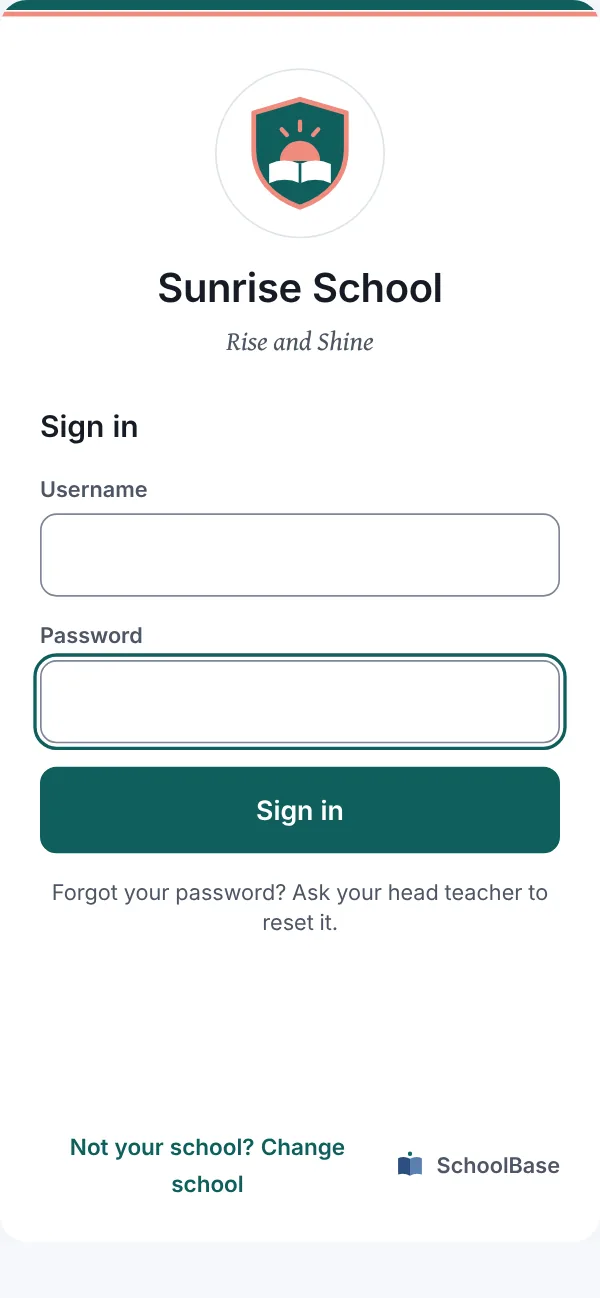
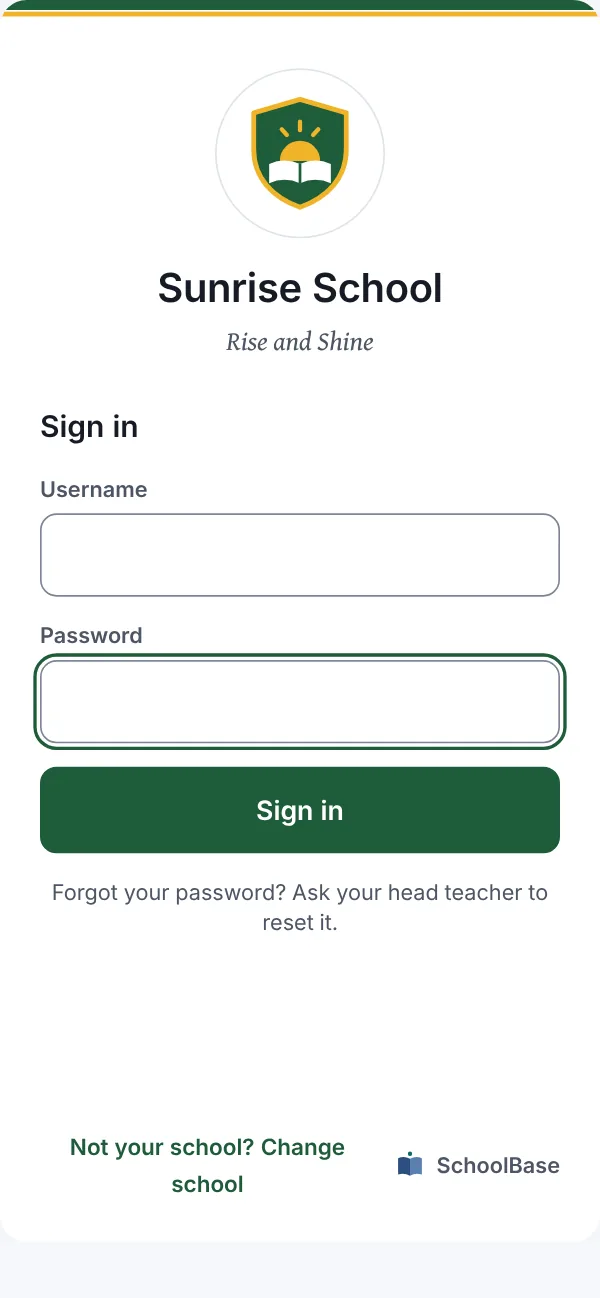
Apple devices throughout; green and wine sample schools
- iPad (on its side) and iPad mini (upright) frames for the tablet pictures, retaken at iPad sizes
- Make it your own: SchoolBase Academy in SchoolBase blue, Sunrise School in green, Bright Future School in wine, each on an iPad with its own sign-in page on an iPhone

Claude-Session: https://claude.ai/code/session_01NWGt9B6dFygNpNTZggbebt

Changed region(s): [[0.06, 0.5855, 0.93, 0.678], [0.0, 0.0, 0.99, 0.0308], [0.39, 0.0616, 0.6, 0.1849]]

diff --git a/index.html b/index.html
@@ -406,11 +406,20 @@ footer nav a{color:var(--ink-2);text-decoration:none}
 .sbx h2{margin:0;font-family:var(--display);font-weight:700;font-size:clamp(30px,3.4vw,44px);line-height:1.1;letter-spacing:-.015em;color:var(--ink,#14233b)}
 .sbx h3{margin:0 0 8px;font-family:var(--display);font-size:21px;line-height:1.25;color:var(--ink,#14233b)}
 .sbx-head p,.sbx p.sbx-p{margin:16px 0 0;font-size:18px;line-height:1.6;color:var(--ink-2,#46536a)}
-.sbx-tabs{display:grid;grid-template-columns:1.62fr 1fr;gap:clamp(20px,4vw,56px);align-items:end}
-.sbx-tab{position:relative;background:#16181d;border-radius:clamp(14px,2vw,26px);padding:clamp(8px,1.1vw,14px);box-shadow:0 30px 60px -28px rgba(12,26,50,.45),inset 0 0 0 1px rgba(255,255,255,.08)}
-.sbx-tab img{display:block;width:100%;height:auto;border-radius:clamp(6px,.8vw,10px)}
-.sbx-tab::after{content:"";position:absolute;top:50%;right:calc(clamp(8px,1.1vw,14px)/2 - 2px);width:4px;height:4px;margin-top:-2px;border-radius:50%;background:#3a3d44}
-.sbx-tab.up::after{top:calc(clamp(8px,1.1vw,14px)/2 - 2px);right:50%;margin:0 -2px 0 0}
+.sbx-tabs{display:grid;grid-template-columns:1.75fr 1fr;gap:clamp(20px,4vw,56px);align-items:end}
+.sbx-tab{position:relative;background:#0b0b0d;border-radius:4.2%/6%;padding:2.6%;box-shadow:0 0 0 1.5px #c9ccd1,0 0 0 3px #e6e8eb,0 34px 60px -30px rgba(12,26,50,.5)}
+.sbx-tab img{display:block;width:100%;height:auto;border-radius:1.4%/2%}
+.sbx-tab::before{content:"";position:absolute;left:50%;top:1.05%;width:.6%;aspect-ratio:1;margin-left:-.3%;border-radius:50%;background:#2a2d33;box-shadow:inset 0 0 0 1px #3d4148}
+.sbx-tab.up{border-radius:6%/4%;padding:3.6%}
+.sbx-tab.up img{border-radius:2.2%/1.4%}
+.sbx-tab.up::before{top:1.5%;width:.9%;margin-left:-.45%}
+.sbx-iph{position:relative;background:#0b0b0d;border-radius:16%/7.4%;padding:3.2%;box-shadow:0 0 0 1.5px #c9ccd1,0 0 0 3px #e6e8eb,0 20px 40px -18px rgba(12,26,50,.55)}
+.sbx-iph .scr{position:relative;overflow:hidden;border-radius:13%/6%;background:#fff}
+.sbx-iph .scr{container-type:inline-size}
+.sbx-iph .bar{display:flex;justify-content:space-between;align-items:center;aspect-ratio:600/64;padding:0 11% 0 12%;font:600 4.6cqw/1 -apple-system,system-ui,"Segoe UI",sans-serif;color:#0b0b0b}
+.sbx-iph .bar i{display:block;width:9%;aspect-ratio:2.2;border-radius:3px;background:linear-gradient(90deg,#0b0b0b 0 70%,transparent 70%);opacity:.85}
+.sbx-iph .isl{position:absolute;left:50%;top:1.2%;width:29%;aspect-ratio:3.6;transform:translateX(-50%);border-radius:99px;background:#0b0b0d}
+.sbx-iph img{display:block;width:100%;height:auto}
 .sbx-cap{margin:14px 0 0;font-size:15px;color:var(--ink-3,#6b768a);text-align:center}
 .sbx-list{list-style:none;margin:28px 0 0;padding:0;display:grid;grid-template-columns:repeat(3,minmax(0,1fr));gap:14px 28px}
 .sbx-list li{position:relative;padding-left:28px;font-size:16px;line-height:1.5;color:var(--ink-2,#46536a)}
@@ -419,9 +428,8 @@ footer nav a{color:var(--ink-2);text-decoration:none}
 .sbx-schools{display:grid;grid-template-columns:repeat(3,minmax(0,1fr));gap:clamp(16px,2.4vw,32px)}
 .sbx-school{margin:0}
 .sbx-shot{position:relative;padding:0 0 18% 0}
-.sbx-shot .sbx-tab{width:88%}
-.sbx-ph{position:absolute;right:0;bottom:0;width:30%;background:#16181d;border-radius:clamp(12px,1.6vw,20px);padding:clamp(4px,.5vw,6px);box-shadow:0 18px 36px -16px rgba(12,26,50,.5)}
-.sbx-ph img{display:block;width:100%;height:auto;border-radius:clamp(9px,1.2vw,15px)}
+.sbx-shot .sbx-tab{width:86%}
+.sbx-ph{position:absolute;right:0;bottom:0;width:29%}
 .sbx-school figcaption{margin-top:16px}
 .sbx-school figcaption b{display:block;font-size:18px;color:var(--ink,#14233b)}
 .sbx-school figcaption span{display:block;font-size:15px;color:var(--ink-3,#6b768a)}
@@ -664,23 +672,23 @@ footer nav a{color:var(--ink-2);text-decoration:none}
   <div class="sbx-in">
     <div class="sbx-head"><p class="sbx-eyebrow">Tablets</p><h2 id="tab-h">On a tablet, too</h2><p>SchoolBase looks and works the same on a phone, a laptop or a tablet. A tablet on the bursar's desk keeps fees and receipts in view all day; one in a classroom or at the gate takes the register in seconds.</p></div>
     <div class="sbx-tabs">
-      <figure style="margin:0"><div class="sbx-tab"><img src="img/t-home.webp" width="1600" height="1000" loading="lazy" alt="SchoolBase on a 10-inch tablet held sideways: the welcome banner, today's figures and a tile for every page."></div><figcaption class="sbx-cap">A 10-inch tablet on its side: the full menu, as on a laptop.</figcaption></figure>
-      <figure style="margin:0"><div class="sbx-tab up"><img src="img/t-attend.webp" width="1000" height="1600" loading="lazy" alt="The morning register on an 8-inch tablet held upright, with Present, Late and Absent for each pupil."></div><figcaption class="sbx-cap">An 8-inch tablet upright: the morning register.</figcaption></figure>
+      <figure style="margin:0"><div class="sbx-tab"><img src="img/t-home.webp" width="1770" height="1230" loading="lazy" alt="SchoolBase on an iPad held sideways: the welcome banner, today's figures and a tile for every page."></div><figcaption class="sbx-cap">An iPad on its side: the full menu, as on a laptop.</figcaption></figure>
+      <figure style="margin:0"><div class="sbx-tab up"><img src="img/t-attend.webp" width="1116" height="1700" loading="lazy" alt="The morning register on an iPad mini held upright, with Present, Late and Absent for each pupil."></div><figcaption class="sbx-cap">An iPad mini upright: the morning register.</figcaption></figure>
     </div>
     <ul class="sbx-list">
       <li><b>Nothing to install.</b> It runs in the web browser, and keeps working when the internet drops.</li>
-      <li><b>Budget tablets are enough.</b> Any recent Android tablet, 8 or 10 inches, does the job.</li>
+      <li><b>Any recent tablet will do.</b> An iPad, an iPad mini, or a budget Android tablet of 8 to 11 inches.</li>
       <li><b>A tablet package is coming.</b> Tablets set up for you and locked to your school, with a quick sign-in for staff who share one.</li>
     </ul>
   </div>
 </section>
 <section class="sbx sbx-alt" id="yours" aria-labelledby="yours-h">
   <div class="sbx-in">
-    <div class="sbx-head"><p class="sbx-eyebrow">Your school</p><h2 id="yours-h">Make it your own</h2><p>Every school gets the same complete system, set up the way it already works and dressed in its own crest, motto and colours. Here are three of our sample schools.</p></div>
+    <div class="sbx-head"><p class="sbx-eyebrow">Your school</p><h2 id="yours-h">Make it your own</h2><p>Every school gets the same complete system, set up the way it already works and dressed in its own crest, motto and colours. Here is our sample school in SchoolBase's own colours, and two more set up in green and in wine.</p></div>
     <div class="sbx-schools">
-      <figure class="sbx-school"><div class="sbx-shot"><div class="sbx-tab"><img src="img/c-schoolbase.webp" width="1600" height="1000" loading="lazy" alt="SchoolBase Academy's home page in blue and gold, with its open-book crest."></div><div class="sbx-ph"><img src="img/c-schoolbase-signin.webp" width="600" height="1298" loading="lazy" alt="SchoolBase Academy's own sign-in page on a phone."></div></div><figcaption><b>SchoolBase Academy</b><span>Blue and gold · open-book crest · “Learning made simple”</span></figcaption></figure>
-      <figure class="sbx-school"><div class="sbx-shot"><div class="sbx-tab"><img src="img/c-sunrise.webp" width="1600" height="1000" loading="lazy" alt="Sunrise School's home page in teal and coral, with a rising-sun crest."></div><div class="sbx-ph"><img src="img/c-sunrise-signin.webp" width="600" height="1298" loading="lazy" alt="Sunrise School's own sign-in page on a phone."></div></div><figcaption><b>Sunrise School</b><span>Teal and coral · rising-sun crest · “Rise and Shine”</span></figcaption></figure>
-      <figure class="sbx-school"><div class="sbx-shot"><div class="sbx-tab"><img src="img/c-hillview.webp" width="1600" height="1000" loading="lazy" alt="Hillview Academy's home page in navy and sky blue, with a hills crest."></div><div class="sbx-ph"><img src="img/c-hillview-signin.webp" width="600" height="1298" loading="lazy" alt="Hillview Academy's own sign-in page on a phone."></div></div><figcaption><b>Hillview Academy</b><span>Navy and sky · hills crest · “Climb Higher”</span></figcaption></figure>
+      <figure class="sbx-school"><div class="sbx-shot"><div class="sbx-tab"><img src="img/c-schoolbase.webp" width="1770" height="1230" loading="lazy" alt="SchoolBase Academy's home page on an iPad, in SchoolBase blue and gold."></div><div class="sbx-ph"><div class="sbx-iph"><div class="scr"><div class="bar"><span>9:41</span><i></i></div><span class="isl" aria-hidden="true"></span><img src="img/c-schoolbase-signin.webp" width="600" height="1298" loading="lazy" alt="SchoolBase Academy's own sign-in page on an iPhone."></div></div></div></div><figcaption><b>SchoolBase Academy</b><span>SchoolBase blue and gold, the standard look · open-book crest · “Learning made simple”</span></figcaption></figure>
+      <figure class="sbx-school"><div class="sbx-shot"><div class="sbx-tab"><img src="img/c-sunrise.webp" width="1770" height="1230" loading="lazy" alt="Sunrise School's home page on an iPad, in forest green and amber."></div><div class="sbx-ph"><div class="sbx-iph"><div class="scr"><div class="bar"><span>9:41</span><i></i></div><span class="isl" aria-hidden="true"></span><img src="img/c-sunrise-signin.webp" width="600" height="1298" loading="lazy" alt="Sunrise School's own sign-in page on an iPhone."></div></div></div></div><figcaption><b>Sunrise School</b><span>Forest green and amber · rising-sun crest · “Rise and Shine”</span></figcaption></figure>
+      <figure class="sbx-school"><div class="sbx-shot"><div class="sbx-tab"><img src="img/c-demo.webp" width="1770" height="1230" loading="lazy" alt="Bright Future School's home page on an iPad, in wine and gold."></div><div class="sbx-ph"><div class="sbx-iph"><div class="scr"><div class="bar"><span>9:41</span><i></i></div><span class="isl" aria-hidden="true"></span><img src="img/c-demo-signin.webp" width="600" height="1298" loading="lazy" alt="Bright Future School's own sign-in page on an iPhone."></div></div></div></div><figcaption><b>Bright Future School</b><span>Wine and gold · torch crest · “Light, Learning, Service”</span></figcaption></figure>
     </div>
     <div class="sbx-cols">
       <div class="sbx-card"><h3>What we set up for your school</h3>

diff --git a/c/index.html b/c/index.html
@@ -249,11 +249,20 @@ footer nav a{text-decoration:none;color:var(--ink-2)}
 .sbx h2{margin:0;font-family:var(--serif);font-weight:700;font-size:clamp(30px,3.4vw,44px);line-height:1.1;letter-spacing:-.015em;color:var(--ink,#14233b)}
 .sbx h3{margin:0 0 8px;font-family:var(--serif);font-size:21px;line-height:1.25;color:var(--ink,#14233b)}
 .sbx-head p,.sbx p.sbx-p{margin:16px 0 0;font-size:18px;line-height:1.6;color:var(--ink-2,#46536a)}
-.sbx-tabs{display:grid;grid-template-columns:1.62fr 1fr;gap:clamp(20px,4vw,56px);align-items:end}
-.sbx-tab{position:relative;background:#16181d;border-radius:clamp(14px,2vw,26px);padding:clamp(8px,1.1vw,14px);box-shadow:0 30px 60px -28px rgba(12,26,50,.45),inset 0 0 0 1px rgba(255,255,255,.08)}
-.sbx-tab img{display:block;width:100%;height:auto;border-radius:clamp(6px,.8vw,10px)}
-.sbx-tab::after{content:"";position:absolute;top:50%;right:calc(clamp(8px,1.1vw,14px)/2 - 2px);width:4px;height:4px;margin-top:-2px;border-radius:50%;background:#3a3d44}
-.sbx-tab.up::after{top:calc(clamp(8px,1.1vw,14px)/2 - 2px);right:50%;margin:0 -2px 0 0}
+.sbx-tabs{display:grid;grid-template-columns:1.75fr 1fr;gap:clamp(20px,4vw,56px);align-items:end}
+.sbx-tab{position:relative;background:#0b0b0d;border-radius:4.2%/6%;padding:2.6%;box-shadow:0 0 0 1.5px #c9ccd1,0 0 0 3px #e6e8eb,0 34px 60px -30px rgba(12,26,50,.5)}
+.sbx-tab img{display:block;width:100%;height:auto;border-radius:1.4%/2%}
+.sbx-tab::before{content:"";position:absolute;left:50%;top:1.05%;width:.6%;aspect-ratio:1;margin-left:-.3%;border-radius:50%;background:#2a2d33;box-shadow:inset 0 0 0 1px #3d4148}
+.sbx-tab.up{border-radius:6%/4%;padding:3.6%}
+.sbx-tab.up img{border-radius:2.2%/1.4%}
+.sbx-tab.up::before{top:1.5%;width:.9%;margin-left:-.45%}
+.sbx-iph{position:relative;background:#0b0b0d;border-radius:16%/7.4%;padding:3.2%;box-shadow:0 0 0 1.5px #c9ccd1,0 0 0 3px #e6e8eb,0 20px 40px -18px rgba(12,26,50,.55)}
+.sbx-iph .scr{position:relative;overflow:hidden;border-radius:13%/6%;background:#fff}
+.sbx-iph .scr{container-type:inline-size}
+.sbx-iph .bar{display:flex;justify-content:space-between;align-items:center;aspect-ratio:600/64;padding:0 11% 0 12%;font:600 4.6cqw/1 -apple-system,system-ui,"Segoe UI",sans-serif;color:#0b0b0b}
+.sbx-iph .bar i{display:block;width:9%;aspect-ratio:2.2;border-radius:3px;background:linear-gradient(90deg,#0b0b0b 0 70%,transparent 70%);opacity:.85}
+.sbx-iph .isl{position:absolute;left:50%;top:1.2%;width:29%;aspect-ratio:3.6;transform:translateX(-50%);border-radius:99px;background:#0b0b0d}
+.sbx-iph img{display:block;width:100%;height:auto}
 .sbx-cap{margin:14px 0 0;font-size:15px;color:var(--ink-3,#6b768a);text-align:center}
 .sbx-list{list-style:none;margin:28px 0 0;padding:0;display:grid;grid-template-columns:repeat(3,minmax(0,1fr));gap:14px 28px}
 .sbx-list li{position:relative;padding-left:28px;font-size:16px;line-height:1.5;color:var(--ink-2,#46536a)}
@@ -262,9 +271,8 @@ footer nav a{text-decoration:none;color:var(--ink-2)}
 .sbx-schools{display:grid;grid-template-columns:repeat(3,minmax(0,1fr));gap:clamp(16px,2.4vw,32px)}
 .sbx-school{margin:0}
 .sbx-shot{position:relative;padding:0 0 18% 0}
-.sbx-shot .sbx-tab{width:88%}
-.sbx-ph{position:absolute;right:0;bottom:0;width:30%;background:#16181d;border-radius:clamp(12px,1.6vw,20px);padding:clamp(4px,.5vw,6px);box-shadow:0 18px 36px -16px rgba(12,26,50,.5)}
-.sbx-ph img{display:block;width:100%;height:auto;border-radius:clamp(9px,1.2vw,15px)}
+.sbx-shot .sbx-tab{width:86%}
+.sbx-ph{position:absolute;right:0;bottom:0;width:29%}
 .sbx-school figcaption{margin-top:16px}
 .sbx-school figcaption b{display:block;font-size:18px;color:var(--ink,#14233b)}
 .sbx-school figcaption span{display:block;font-size:15px;color:var(--ink-3,#6b768a)}
@@ -385,23 +393,23 @@ footer nav a{text-decoration:none;color:var(--ink-2)}
   <div class="sbx-in">
     <div class="sbx-head"><p class="sbx-eyebrow">Tablets</p><h2 id="tab-h">On a tablet, too</h2><p>SchoolBase looks and works the same on a phone, a laptop or a tablet. A tablet on the bursar's desk keeps fees and receipts in view all day; one in a classroom or at the gate takes the register in seconds.</p></div>
     <div class="sbx-tabs">
-      <figure style="margin:0"><div class="sbx-tab"><img src="img/t-home.webp" width="1600" height="1000" loading="lazy" alt="SchoolBase on a 10-inch tablet held sideways: the welcome banner, today's figures and a tile for every page."></div><figcaption class="sbx-cap">A 10-inch tablet on its side: the full menu, as on a laptop.</figcaption></figure>
-      <figure style="margin:0"><div class="sbx-tab up"><img src="img/t-attend.webp" width="1000" height="1600" loading="lazy" alt="The morning register on an 8-inch tablet held upright, with Present, Late and Absent for each pupil."></div><figcaption class="sbx-cap">An 8-inch tablet upright: the morning register.</figcaption></figure>
+      <figure style="margin:0"><div class="sbx-tab"><img src="img/t-home.webp" width="1770" height="1230" loading="lazy" alt="SchoolBase on an iPad held sideways: the welcome banner, today's figures and a tile for every page."></div><figcaption class="sbx-cap">An iPad on its side: the full menu, as on a laptop.</figcaption></figure>
+      <figure style="margin:0"><div class="sbx-tab up"><img src="img/t-attend.webp" width="1116" height="1700" loading="lazy" alt="The morning register on an iPad mini held upright, with Present, Late and Absent for each pupil."></div><figcaption class="sbx-cap">An iPad mini upright: the morning register.</figcaption></figure>
     </div>
     <ul class="sbx-list">
       <li><b>Nothing to install.</b> It runs in the web browser, and keeps working when the internet drops.</li>
-      <li><b>Budget tablets are enough.</b> Any recent Android tablet, 8 or 10 inches, does the job.</li>
+      <li><b>Any recent tablet will do.</b> An iPad, an iPad mini, or a budget Android tablet of 8 to 11 inches.</li>
       <li><b>A tablet package is coming.</b> Tablets set up for you and locked to your school, with a quick sign-in for staff who share one.</li>
     </ul>
   </div>
 </section>
 <section class="sbx sbx-alt" id="yours" aria-labelledby="yours-h">
   <div class="sbx-in">
-    <div class="sbx-head"><p class="sbx-eyebrow">Your school</p><h2 id="yours-h">Make it your own</h2><p>Every school gets the same complete system, set up the way it already works and dressed in its own crest, motto and colours. Here are three of our sample schools.</p></div>
+    <div class="sbx-head"><p class="sbx-eyebrow">Your school</p><h2 id="yours-h">Make it your own</h2><p>Every school gets the same complete system, set up the way it already works and dressed in its own crest, motto and colours. Here is our sample school in SchoolBase's own colours, and two more set up in green and in wine.</p></div>
     <div class="sbx-schools">
-      <figure class="sbx-school"><div class="sbx-shot"><div class="sbx-tab"><img src="img/c-schoolbase.webp" width="1600" height="1000" loading="lazy" alt="SchoolBase Academy's home page in blue and gold, with its open-book crest."></div><div class="sbx-ph"><img src="img/c-schoolbase-signin.webp" width="600" height="1298" loading="lazy" alt="SchoolBase Academy's own sign-in page on a phone."></div></div><figcaption><b>SchoolBase Academy</b><span>Blue and gold · open-book crest · “Learning made simple”</span></figcaption></figure>
-      <figure class="sbx-school"><div class="sbx-shot"><div class="sbx-tab"><img src="img/c-sunrise.webp" width="1600" height="1000" loading="lazy" alt="Sunrise School's home page in teal and coral, with a rising-sun crest."></div><div class="sbx-ph"><img src="img/c-sunrise-signin.webp" width="600" height="1298" loading="lazy" alt="Sunrise School's own sign-in page on a phone."></div></div><figcaption><b>Sunrise School</b><span>Teal and coral · rising-sun crest · “Rise and Shine”</span></figcaption></figure>
-      <figure class="sbx-school"><div class="sbx-shot"><div class="sbx-tab"><img src="img/c-hillview.webp" width="1600" height="1000" loading="lazy" alt="Hillview Academy's home page in navy and sky blue, with a hills crest."></div><div class="sbx-ph"><img src="img/c-hillview-signin.webp" width="600" height="1298" loading="lazy" alt="Hillview Academy's own sign-in page on a phone."></div></div><figcaption><b>Hillview Academy</b><span>Navy and sky · hills crest · “Climb Higher”</span></figcaption></figure>
+      <figure class="sbx-school"><div class="sbx-shot"><div class="sbx-tab"><img src="img/c-schoolbase.webp" width="1770" height="1230" loading="lazy" alt="SchoolBase Academy's home page on an iPad, in SchoolBase blue and gold."></div><div class="sbx-ph"><div class="sbx-iph"><div class="scr"><div class="bar"><span>9:41</span><i></i></div><span class="isl" aria-hidden="true"></span><img src="img/c-schoolbase-signin.webp" width="600" height="1298" loading="lazy" alt="SchoolBase Academy's own sign-in page on an iPhone."></div></div></div></div><figcaption><b>SchoolBase Academy</b><span>SchoolBase blue and gold, the standard look · open-book crest · “Learning made simple”</span></figcaption></figure>
+      <figure class="sbx-school"><div class="sbx-shot"><div class="sbx-tab"><img src="img/c-sunrise.webp" width="1770" height="1230" loading="lazy" alt="Sunrise School's home page on an iPad, in forest green and amber."></div><div class="sbx-ph"><div class="sbx-iph"><div class="scr"><div class="bar"><span>9:41</span><i></i></div><span class="isl" aria-hidden="true"></span><img src="img/c-sunrise-signin.webp" width="600" height="1298" loading="lazy" alt="Sunrise School's own sign-in page on an iPhone."></div></div></div></div><figcaption><b>Sunrise School</b><span>Forest green and amber · rising-sun crest · “Rise and Shine”</span></figcaption></figure>
+      <figure class="sbx-school"><div class="sbx-shot"><div class="sbx-tab"><img src="img/c-demo.webp" width="1770" height="1230" loading="lazy" alt="Bright Future School's home page on an iPad, in wine and gold."></div><div class="sbx-ph"><div class="sbx-iph"><div class="scr"><div class="bar"><span>9:41</span><i></i></div><span class="isl" aria-hidden="true"></span><img src="img/c-demo-signin.webp" width="600" height="1298" loading="lazy" alt="Bright Future School's own sign-in page on an iPhone."></div></div></div></div><figcaption><b>Bright Future School</b><span>Wine and gold · torch crest · “Light, Learning, Service”</span></figcaption></figure>
     </div>
     <div class="sbx-cols">
       <div class="sbx-card"><h3>What we set up for your school</h3>

diff --git a/b/index.html b/b/index.html
@@ -306,11 +306,20 @@ footer a{text-decoration:none;color:#c1cde0}
 .sbx h2{margin:0;font-family:var(--display);font-weight:700;font-size:clamp(30px,3.4vw,44px);line-height:1.1;letter-spacing:-.015em;color:var(--ink,#14233b)}
 .sbx h3{margin:0 0 8px;font-family:var(--display);font-size:21px;line-height:1.25;color:var(--ink,#14233b)}
 .sbx-head p,.sbx p.sbx-p{margin:16px 0 0;font-size:18px;line-height:1.6;color:var(--ink-2,#46536a)}
-.sbx-tabs{display:grid;grid-template-columns:1.62fr 1fr;gap:clamp(20px,4vw,56px);align-items:end}
-.sbx-tab{position:relative;background:#16181d;border-radius:clamp(14px,2vw,26px);padding:clamp(8px,1.1vw,14px);box-shadow:0 30px 60px -28px rgba(12,26,50,.45),inset 0 0 0 1px rgba(255,255,255,.08)}
-.sbx-tab img{display:block;width:100%;height:auto;border-radius:clamp(6px,.8vw,10px)}
-.sbx-tab::after{content:"";position:absolute;top:50%;right:calc(clamp(8px,1.1vw,14px)/2 - 2px);width:4px;height:4px;margin-top:-2px;border-radius:50%;background:#3a3d44}
-.sbx-tab.up::after{top:calc(clamp(8px,1.1vw,14px)/2 - 2px);right:50%;margin:0 -2px 0 0}
+.sbx-tabs{display:grid;grid-template-columns:1.75fr 1fr;gap:clamp(20px,4vw,56px);align-items:end}
+.sbx-tab{position:relative;background:#0b0b0d;border-radius:4.2%/6%;padding:2.6%;box-shadow:0 0 0 1.5px #c9ccd1,0 0 0 3px #e6e8eb,0 34px 60px -30px rgba(12,26,50,.5)}
+.sbx-tab img{display:block;width:100%;height:auto;border-radius:1.4%/2%}
+.sbx-tab::before{content:"";position:absolute;left:50%;top:1.05%;width:.6%;aspect-ratio:1;margin-left:-.3%;border-radius:50%;background:#2a2d33;box-shadow:inset 0 0 0 1px #3d4148}
+.sbx-tab.up{border-radius:6%/4%;padding:3.6%}
+.sbx-tab.up img{border-radius:2.2%/1.4%}
+.sbx-tab.up::before{top:1.5%;width:.9%;margin-left:-.45%}
+.sbx-iph{position:relative;background:#0b0b0d;border-radius:16%/7.4%;padding:3.2%;box-shadow:0 0 0 1.5px #c9ccd1,0 0 0 3px #e6e8eb,0 20px 40px -18px rgba(12,26,50,.55)}
+.sbx-iph .scr{position:relative;overflow:hidden;border-radius:13%/6%;background:#fff}
+.sbx-iph .scr{container-type:inline-size}
+.sbx-iph .bar{display:flex;justify-content:space-between;align-items:center;aspect-ratio:600/64;padding:0 11% 0 12%;font:600 4.6cqw/1 -apple-system,system-ui,"Segoe UI",sans-serif;color:#0b0b0b}
+.sbx-iph .bar i{display:block;width:9%;aspect-ratio:2.2;border-radius:3px;background:linear-gradient(90deg,#0b0b0b 0 70%,transparent 70%);opacity:.85}
+.sbx-iph .isl{position:absolute;left:50%;top:1.2%;width:29%;aspect-ratio:3.6;transform:translateX(-50%);border-radius:99px;background:#0b0b0d}
+.sbx-iph img{display:block;width:100%;height:auto}
 .sbx-cap{margin:14px 0 0;font-size:15px;color:var(--ink-3,#6b768a);text-align:center}
 .sbx-list{list-style:none;margin:28px 0 0;padding:0;display:grid;grid-template-columns:repeat(3,minmax(0,1fr));gap:14px 28px}
 .sbx-list li{position:relative;padding-left:28px;font-size:16px;line-height:1.5;color:var(--ink-2,#46536a)}
@@ -319,9 +328,8 @@ footer a{text-decoration:none;color:#c1cde0}
 .sbx-schools{display:grid;grid-template-columns:repeat(3,minmax(0,1fr));gap:clamp(16px,2.4vw,32px)}
 .sbx-school{margin:0}
 .sbx-shot{position:relative;padding:0 0 18% 0}
-.sbx-shot .sbx-tab{width:88%}
-.sbx-ph{position:absolute;right:0;bottom:0;width:30%;background:#16181d;border-radius:clamp(12px,1.6vw,20px);padding:clamp(4px,.5vw,6px);box-shadow:0 18px 36px -16px rgba(12,26,50,.5)}
-.sbx-ph img{display:block;width:100%;height:auto;border-radius:clamp(9px,1.2vw,15px)}
+.sbx-shot .sbx-tab{width:86%}
+.sbx-ph{position:absolute;right:0;bottom:0;width:29%}
 .sbx-school figcaption{margin-top:16px}
 .sbx-school figcaption b{display:block;font-size:18px;color:var(--ink,#14233b)}
 .sbx-school figcaption span{display:block;font-size:15px;color:var(--ink-3,#6b768a)}
@@ -462,23 +470,23 @@ footer a{text-decoration:none;color:#c1cde0}
   <div class="sbx-in">
     <div class="sbx-head"><p class="sbx-eyebrow">Tablets</p><h2 id="tab-h">On a tablet, too</h2><p>SchoolBase looks and works the same on a phone, a laptop or a tablet. A tablet on the bursar's desk keeps fees and receipts in view all day; one in a classroom or at the gate takes the register in seconds.</p></div>
     <div class="sbx-tabs">
-      <figure style="margin:0"><div class="sbx-tab"><img src="img/t-home.webp" width="1600" height="1000" loading="lazy" alt="SchoolBase on a 10-inch tablet held sideways: the welcome banner, today's figures and a tile for every page."></div><figcaption class="sbx-cap">A 10-inch tablet on its side: the full menu, as on a laptop.</figcaption></figure>
-      <figure style="margin:0"><div class="sbx-tab up"><img src="img/t-attend.webp" width="1000" height="1600" loading="lazy" alt="The morning register on an 8-inch tablet held upright, with Present, Late and Absent for each pupil."></div><figcaption class="sbx-cap">An 8-inch tablet upright: the morning register.</figcaption></figure>
+      <figure style="margin:0"><div class="sbx-tab"><img src="img/t-home.webp" width="1770" height="1230" loading="lazy" alt="SchoolBase on an iPad held sideways: the welcome banner, today's figures and a tile for every page."></div><figcaption class="sbx-cap">An iPad on its side: the full menu, as on a laptop.</figcaption></figure>
+      <figure style="margin:0"><div class="sbx-tab up"><img src="img/t-attend.webp" width="1116" height="1700" loading="lazy" alt="The morning register on an iPad mini held upright, with Present, Late and Absent for each pupil."></div><figcaption class="sbx-cap">An iPad mini upright: the morning register.</figcaption></figure>
     </div>
     <ul class="sbx-list">
       <li><b>Nothing to install.</b> It runs in the web browser, and keeps working when the internet drops.</li>
-      <li><b>Budget tablets are enough.</b> Any recent Android tablet, 8 or 10 inches, does the job.</li>
+      <li><b>Any recent tablet will do.</b> An iPad, an iPad mini, or a budget Android tablet of 8 to 11 inches.</li>
       <li><b>A tablet package is coming.</b> Tablets set up for you and locked to your school, with a quick sign-in for staff who share one.</li>
     </ul>
   </div>
 </section>
 <section class="sbx sbx-alt" id="yours" aria-labelledby="yours-h">
   <div class="sbx-in">
-    <div class="sbx-head"><p class="sbx-eyebrow">Your school</p><h2 id="yours-h">Make it your own</h2><p>Every school gets the same complete system, set up the way it already works and dressed in its own crest, motto and colours. Here are three of our sample schools.</p></div>
+    <div class="sbx-head"><p class="sbx-eyebrow">Your school</p><h2 id="yours-h">Make it your own</h2><p>Every school gets the same complete system, set up the way it already works and dressed in its own crest, motto and colours. Here is our sample school in SchoolBase's own colours, and two more set up in green and in wine.</p></div>
     <div class="sbx-schools">
-      <figure class="sbx-school"><div class="sbx-shot"><div class="sbx-tab"><img src="img/c-schoolbase.webp" width="1600" height="1000" loading="lazy" alt="SchoolBase Academy's home page in blue and gold, with its open-book crest."></div><div class="sbx-ph"><img src="img/c-schoolbase-signin.webp" width="600" height="1298" loading="lazy" alt="SchoolBase Academy's own sign-in page on a phone."></div></div><figcaption><b>SchoolBase Academy</b><span>Blue and gold · open-book crest · “Learning made simple”</span></figcaption></figure>
-      <figure class="sbx-school"><div class="sbx-shot"><div class="sbx-tab"><img src="img/c-sunrise.webp" width="1600" height="1000" loading="lazy" alt="Sunrise School's home page in teal and coral, with a rising-sun crest."></div><div class="sbx-ph"><img src="img/c-sunrise-signin.webp" width="600" height="1298" loading="lazy" alt="Sunrise School's own sign-in page on a phone."></div></div><figcaption><b>Sunrise School</b><span>Teal and coral · rising-sun crest · “Rise and Shine”</span></figcaption></figure>
-      <figure class="sbx-school"><div class="sbx-shot"><div class="sbx-tab"><img src="img/c-hillview.webp" width="1600" height="1000" loading="lazy" alt="Hillview Academy's home page in navy and sky blue, with a hills crest."></div><div class="sbx-ph"><img src="img/c-hillview-signin.webp" width="600" height="1298" loading="lazy" alt="Hillview Academy's own sign-in page on a phone."></div></div><figcaption><b>Hillview Academy</b><span>Navy and sky · hills crest · “Climb Higher”</span></figcaption></figure>
+      <figure class="sbx-school"><div class="sbx-shot"><div class="sbx-tab"><img src="img/c-schoolbase.webp" width="1770" height="1230" loading="lazy" alt="SchoolBase Academy's home page on an iPad, in SchoolBase blue and gold."></div><div class="sbx-ph"><div class="sbx-iph"><div class="scr"><div class="bar"><span>9:41</span><i></i></div><span class="isl" aria-hidden="true"></span><img src="img/c-schoolbase-signin.webp" width="600" height="1298" loading="lazy" alt="SchoolBase Academy's own sign-in page on an iPhone."></div></div></div></div><figcaption><b>SchoolBase Academy</b><span>SchoolBase blue and gold, the standard look · open-book crest · “Learning made simple”</span></figcaption></figure>
+      <figure class="sbx-school"><div class="sbx-shot"><div class="sbx-tab"><img src="img/c-sunrise.webp" width="1770" height="1230" loading="lazy" alt="Sunrise School's home page on an iPad, in forest green and amber."></div><div class="sbx-ph"><div class="sbx-iph"><div class="scr"><div class="bar"><span>9:41</span><i></i></div><span class="isl" aria-hidden="true"></span><img src="img/c-sunrise-signin.webp" width="600" height="1298" loading="lazy" alt="Sunrise School's own sign-in page on an iPhone."></div></div></div></div><figcaption><b>Sunrise School</b><span>Forest green and amber · rising-sun crest · “Rise and Shine”</span></figcaption></figure>
+      <figure class="sbx-school"><div class="sbx-shot"><div class="sbx-tab"><img src="img/c-demo.webp" width="1770" height="1230" loading="lazy" alt="Bright Future School's home page on an iPad, in wine and gold."></div><div class="sbx-ph"><div class="sbx-iph"><div class="scr"><div class="bar"><span>9:41</span><i></i></div><span class="isl" aria-hidden="true"></span><img src="img/c-demo-signin.webp" width="600" height="1298" loading="lazy" alt="Bright Future School's own sign-in page on an iPhone."></div></div></div></div><figcaption><b>Bright Future School</b><span>Wine and gold · torch crest · “Light, Learning, Service”</span></figcaption></figure>
     </div>
     <div class="sbx-cols">
       <div class="sbx-card"><h3>What we set up for your school</h3>

diff --git a/README.md b/README.md
@@ -3,7 +3,7 @@
 The public website for SchoolBase, school management for basic schools in Ghana.
 
 - Three designs of the same site: A at the root (`index.html`), B in `b/`, C in `c/`. Each is one self-contained page with its own `fonts/` (OFL) and `img/`.
-- Product pictures (laptop `d-`, phone `p-`, tablet `t-`, and each sample school `c-`) are screenshots of the SchoolBase app taken from made-up sample schools (SchoolBase Academy, Sunrise School, Hillview Academy), never a real school. Photos are from Unsplash under the Unsplash License, credited on the page.
+- Product pictures (MacBook `d-`, iPhone `p-`, iPad `t-`, and each sample school `c-`) are screenshots of the SchoolBase app taken from made-up sample schools (SchoolBase Academy in SchoolBase colours, Sunrise School in green, Bright Future School in wine), never a real school. Photos are from Unsplash under the Unsplash License, credited on the page.
 - The sources live in the private SchoolBase repository (`website/`, `website-b/`, `website-c/`); pictures are retaken with its `tools/siteshots.py`.
 - Served by GitHub Pages from the `main` branch.
 - Contact numbers go in the `CONTACT` object near the end of `index.html`.
